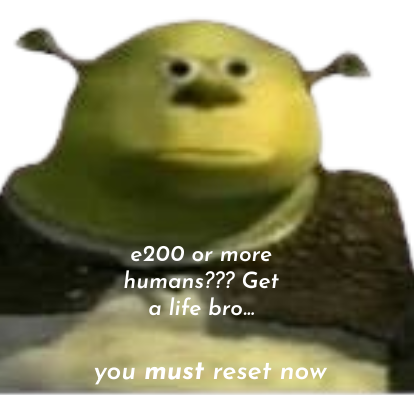
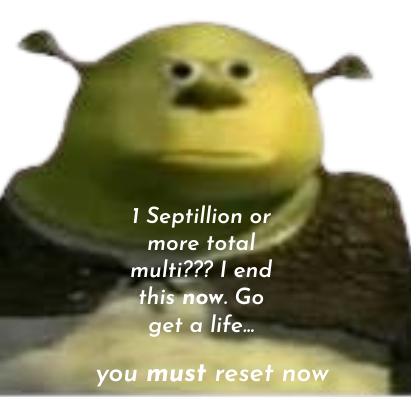
Add files via upload

diff --git a/why.js b/why.js
@@ -11,6 +11,7 @@ var universe = 0
 
 var userName = "A Random Person"
 var pastEndgame = false
+var metWall = false
 var joeClick = false
 
 var house_multi = 1
@@ -196,6 +197,7 @@ function saveGame(){
         minutes : minutes,
         hours : hours,
         days : days,
+        metWall : metWall,
         joeClick : joeClick
     };
 
@@ -204,8 +206,9 @@ function saveGame(){
 
 function resetGame(){
     if (confirm("Are you positive you wish to reset?")){
-        var gameSave = {};
+        var gameSave = {}
         localStorage.setItem("gameSave", JSON.stringify(gameSave))
+        totalMulti = 0
         location.reload()
     }
 }
@@ -233,7 +236,8 @@ function loadGame(){
         if(typeof savedGame.minutes !== "undefined") minutes = savedGame.minutes;
         if(typeof savedGame.hours !== "undefined") hours = savedGame.hours;
         if(typeof savedGame.days !== "undefined") days = savedGame.days;
-        if(typeof savedGame.joeClick !== "undefined") joeClick = savedGame.joeClick;
+        if(typeof savedGame.metWall !== "undefined") metWall = savedGame.metWall;
+        if(typeof savedGame.joeClick !== "undefined") joeClick = savedGame.joeClick
     }
 }
 
@@ -284,7 +288,7 @@ function timeTick(){
 
 
 function checkEndgame(){
-    if(planet >= 100 && pastEndgame === false){
+    if(planet > 99 && pastEndgame === false){
         document.getElementById("left").style.display = "none"
         document.getElementById("right").style.display = "none"
         document.getElementById("troll").style.display = "block"
@@ -292,19 +296,22 @@ function checkEndgame(){
         document.getElementById("endgameReset").style.display = "block"
     }
     
-    if(planet >= 100 && pastEndgame === true){
+    if(planet > 99 && pastEndgame === true){
         document.getElementById("left").style.display = ""
         document.getElementById("right").style.display = ""
         document.getElementById("troll").style.display = "none"
         document.getElementById("continue").style.display = "none"
         document.getElementById("endgameReset").style.display = "none"
     }    
-    if(human >= 1e200){
+    if(totalMulti >= 1e21){
+        pastEndgame === true
+        metWall = true
         saveGame()
         document.getElementById("left").style.display = "none"
         document.getElementById("right").style.display = "none"
         document.getElementById("theWall").style.display = "block"
     }
+
 }
 
 function displayUpdate(){

diff --git a/changelog.html b/changelog.html
@@ -11,7 +11,7 @@
         <br><li>Made a bonuses section on the left side.</li>
         <br><li>Made a place to put a player name.</li>
         <br><li>Created this goofy changelog.</li>
-        <br><li>Rebalanced the game.</li>
+        <br><li>Extremely rebalanced the game.</li>
         <br><li>Added a save system.</li>
         <br><li>Added time played counter.</li>
         <br><li>Created gradients for background of buildings.</li>
